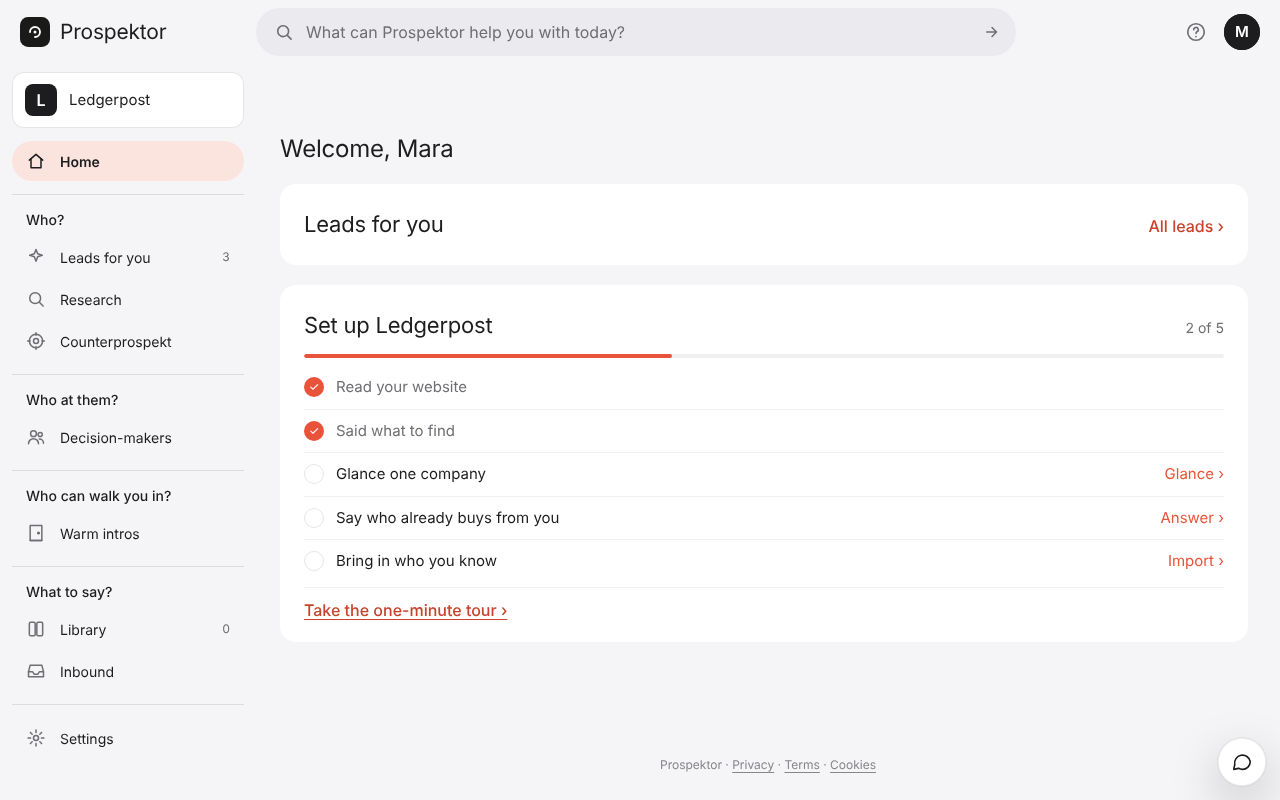
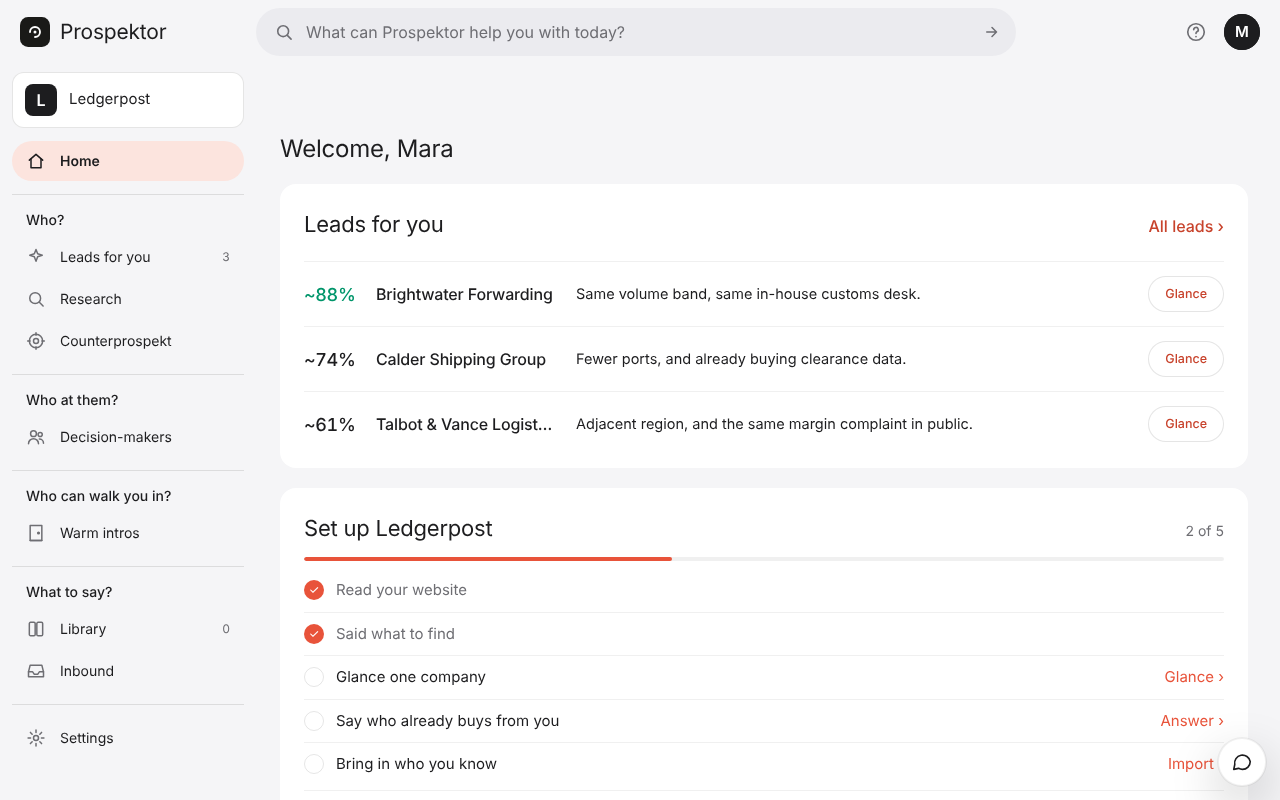
Seed the demo capture's Leads for you with the example's own leads (studio #1156)
Step 2 of /demo/ was a blank white strip: the capture runs with no API key, so
the setup search filled the shelf with bracketed gaps and #767 hid them. The
capture now seeds its throwaway workspace through the studio's lib/shelf.js
with the three lookalikes public/example-pitch.js draws under Harborline
Freight (Brightwater Forwarding, Calder Shipping Group, Talbot & Vance
Logistics), so the tiles are the product's rendering of the product's own
invented world. Home's row of three shows the same leads. Re-captured from
studio 010c93c, strings snapshot refreshed to the same commit.

Claude-Session: https://claude.ai/code/session_017veFjRryfq4YWkq4GwA8Rf

diff --git a/tools/demo-capture.js b/tools/demo-capture.js
@@ -128,7 +128,7 @@ const post = (page, url, body) => page.evaluate(([u, b]) =>
   fetch(u, { method: 'POST', headers: { 'content-type': 'application/json' }, body: JSON.stringify(b) }).then(r => r.json()), [url, body]);
 
 /** The way `dev/drive-tour.js` reaches the tour: a fresh member, a settled workspace, the studio itself. */
-async function signIn(page, helpers) {
+async function signIn(page, helpers, dir, dataDir) {
   await page.goto(BASE);
   await page.fill('#dev-email', EMAIL);
   await page.click('#dev-go');
@@ -142,6 +142,7 @@ async function signIn(page, helpers) {
     await page.waitForTimeout(500);
   }
   await post(page, '/api/first-run', { spent: true }).catch(() => {});
+  await seedShelf(page, dir, dataDir);
   await page.goto(BASE);
   // Whatever fronts the studio is cleared the way the studio's own drives
   // clear it (`dev/drive-account.js`), then the cookie notice, so the shots
@@ -150,17 +151,15 @@ async function signIn(page, helpers) {
   await helpers.pastFirstRunDeck(page);
   const consent = await page.locator('.ppsc-bar button.ppsc-btn-primary').count();
   if (consent) { await page.click('.ppsc-bar button.ppsc-btn-primary'); await page.waitForSelector('.ppsc-bar', { state: 'detached', timeout: 8000 }).catch(() => {}); }
-  // The capture runs with no API key, so the shelf on Leads for you holds
-  // simulated tiles that say so on their face, and so does Home's own row of
-  // three (`#start-leads`), and Counterprospekt's competitor reading that never
-  // lands without a key (its note, `#rivals-slot .rank-note`; since the studio's
-  // #1103 the slot itself holds the step's anchor, the add field, so it stays
-  // up). They are hidden BEFORE the tour
-  // reaches that step, so the tour places its ring on the screen as shot; the
-  // ring is on the ask box either way, and a visitor sees the box and the
-  // sentence, never a placeholder company. The account nudge (a recovery
-  // number and a passkey) is a fresh member's chore and goes the same way.
-  await page.addStyleTag({ content: '#view-suggested .tiles, #start-leads, #rivals-slot .rank-note, #shelf-task, #shelf-state, #account-nudge { display: none !important; }' });
+  // The capture runs with no API key, so Counterprospekt's competitor reading
+  // never lands (its note, `#rivals-slot .rank-note`; since the studio's #1103
+  // the slot itself holds the step's anchor, the add field, so it stays up).
+  // It is hidden BEFORE the tour reaches that step, so the tour places its
+  // ring on the screen as shot. The account nudge (a recovery number and a
+  // passkey) is a fresh member's chore and goes the same way. The shelf on
+  // Leads for you, and Home's own row of three, are no longer hidden (#1156):
+  // `seedShelf` below gives them the example's own leads before the tour opens.
+  await page.addStyleTag({ content: '#rivals-slot .rank-note, #shelf-task, #account-nudge { display: none !important; }' });
   // Since the studio's #1097 the tour never opens on its own: it is the last
   // line of the setup card on Home, and it opens when that line is pressed.
   // The studio's own `dev/drive-tour.js` opens it the same way.
@@ -176,6 +175,49 @@ async function signIn(page, helpers) {
     const box = document.getElementById('start-ask-form')?.getBoundingClientRect();
     return Boolean(box && box.width && box.height);
   }, { timeout: 30000 });
+}
+
+/*
+ * Leads for you, with leads on it (#1156).
+ *
+ * The capture runs with no API key, so the setup search fills the shelf with
+ * simulated tiles whose names are bracketed gaps (*[a company you would not
+ * have thought of]*), and #767 hid them, which left step 2 of `/demo/` a blank
+ * strip at the one step meant to sell who to chase. The shelf the shots show
+ * is seeded instead from the example's own invented world: the three
+ * lookalikes `public/example-pitch.js` draws under Harborline Freight, which
+ * are exactly the companies Leads for you would hold for Ledgerpost. They are
+ * written onto the capture's own throwaway workspace through the studio's
+ * `lib/shelf.js`, so the tiles are the product's rendering of the product's
+ * words: the name, the fit and the one-line why are all the studio's, and
+ * nothing here invents a company. The studio's own rule holds too: those
+ * names stay invented, and `test/buildPrompt.test.js` there checks it.
+ */
+async function seedShelf(page, dir, dataDir) {
+  // The store reads its root off the environment when it loads, so the
+  // capture's process is pointed at the dev server's data directory first.
+  process.env.STUDIO_DATA_DIR = dataDir;
+  process.env.STUDIO_FORCE_LOCAL_STORE = '1';
+  const { default: example } = await import(pathToFileURL(path.join(dir, 'public', 'example-pitch.js')).href);
+  const shelf = await import(pathToFileURL(path.join(dir, 'lib', 'shelf.js')).href);
+  const leads = (example?.result?.lookalikes || [])
+    .filter(l => l && l.name && !/^\[/.test(l.name) && l.why)
+    .map(l => ({ name: l.name, website: l.website || null, score: l.similarity ?? null, why: l.why, facts: [] }));
+  if (leads.length < 3) throw new Error(`the example pitch holds ${leads.length} lookalikes to seed Leads for you with, and the screen is drawn for three`);
+  const me = await page.evaluate(() => fetch('/api/me').then(r => r.json()));
+  const clientId = me?.client?.id;
+  if (!clientId) throw new Error('could not read the capture workspace\'s id off /api/me');
+  // The setup search's own refill lands first, so nothing simulated lands over the seed.
+  const until = Date.now() + 20000;
+  while (Date.now() < until) {
+    const seen = await page.evaluate(() => fetch('/api/suggestions').then(r => r.json())).catch(() => null);
+    if (seen && !seen.refilling && !seen.preparing) break;
+    await page.waitForTimeout(500);
+  }
+  const written = await shelf.updateShelf(clientId, current => shelf.addProspects({ ...current, prospects: [], refill: null }, leads, { source: 'example' }).record);
+  const names = (written?.prospects || []).map(p => p.name);
+  if (names.length !== leads.length) throw new Error(`seeded ${names.length} of ${leads.length} example leads onto the shelf`);
+  console.log(`  Leads for you seeded from the example: ${names.join(', ')}`);
 }
 
 /** Wait until the ring and the card have stopped moving (the drive's `settled`). */
@@ -285,7 +327,7 @@ async function main() {
   const errors = [];
   page.on('pageerror', error => errors.push(String(error)));
   try {
-    await signIn(page, helpers);
+    await signIn(page, helpers, dir, dataDir);
     fs.mkdirSync(SHOTS, { recursive: true });
     for (const stale of fs.readdirSync(SHOTS)) if (/^(step-\d+|screen-[a-z-]+)\.png$/.test(stale)) fs.unlinkSync(path.join(SHOTS, stale));
     const total = await page.locator('#tour-dots i').count();

diff --git a/docs/contracts.md b/docs/contracts.md
@@ -315,9 +315,17 @@ link, so the page walks with no script too.
   checks them, with the same `says`.
 - **The capture hides three things and nothing else**, all of them true of the
   capture and of nothing a visitor looks at: the dev server's own notice that
-  runs are simulated, the simulated tiles on Leads for you, and a fresh
-  member's account nudge. The tour's own overlay is hidden for the shot
-  because the page draws its own ring and card.
+  runs are simulated, Counterprospekt's note that its competitor reading never
+  landed, and a fresh member's account nudge. The tour's own overlay is hidden
+  for the shot because the page draws its own ring and card.
+- **Leads for you shows leads, and they are the example's own** (#1156). With
+  no API key the setup search fills the shelf with bracketed gaps, and hiding
+  them left step 2 a blank strip. The capture seeds its throwaway workspace
+  instead, through the studio's `lib/shelf.js`, with the three lookalikes
+  `public/example-pitch.js` draws under Harborline Freight: invented names
+  the studio's own tests keep invented, each with the studio's fit and the
+  studio's one-line why. Nothing on the tiles is written here, and no real
+  company is named.
 - **The card sits under the screen, never over it.** The rings are mostly the
   right-hand panel, so a card over the screen would cover what it points at,
   and a card below scales to a phone without covering anything. The end card
